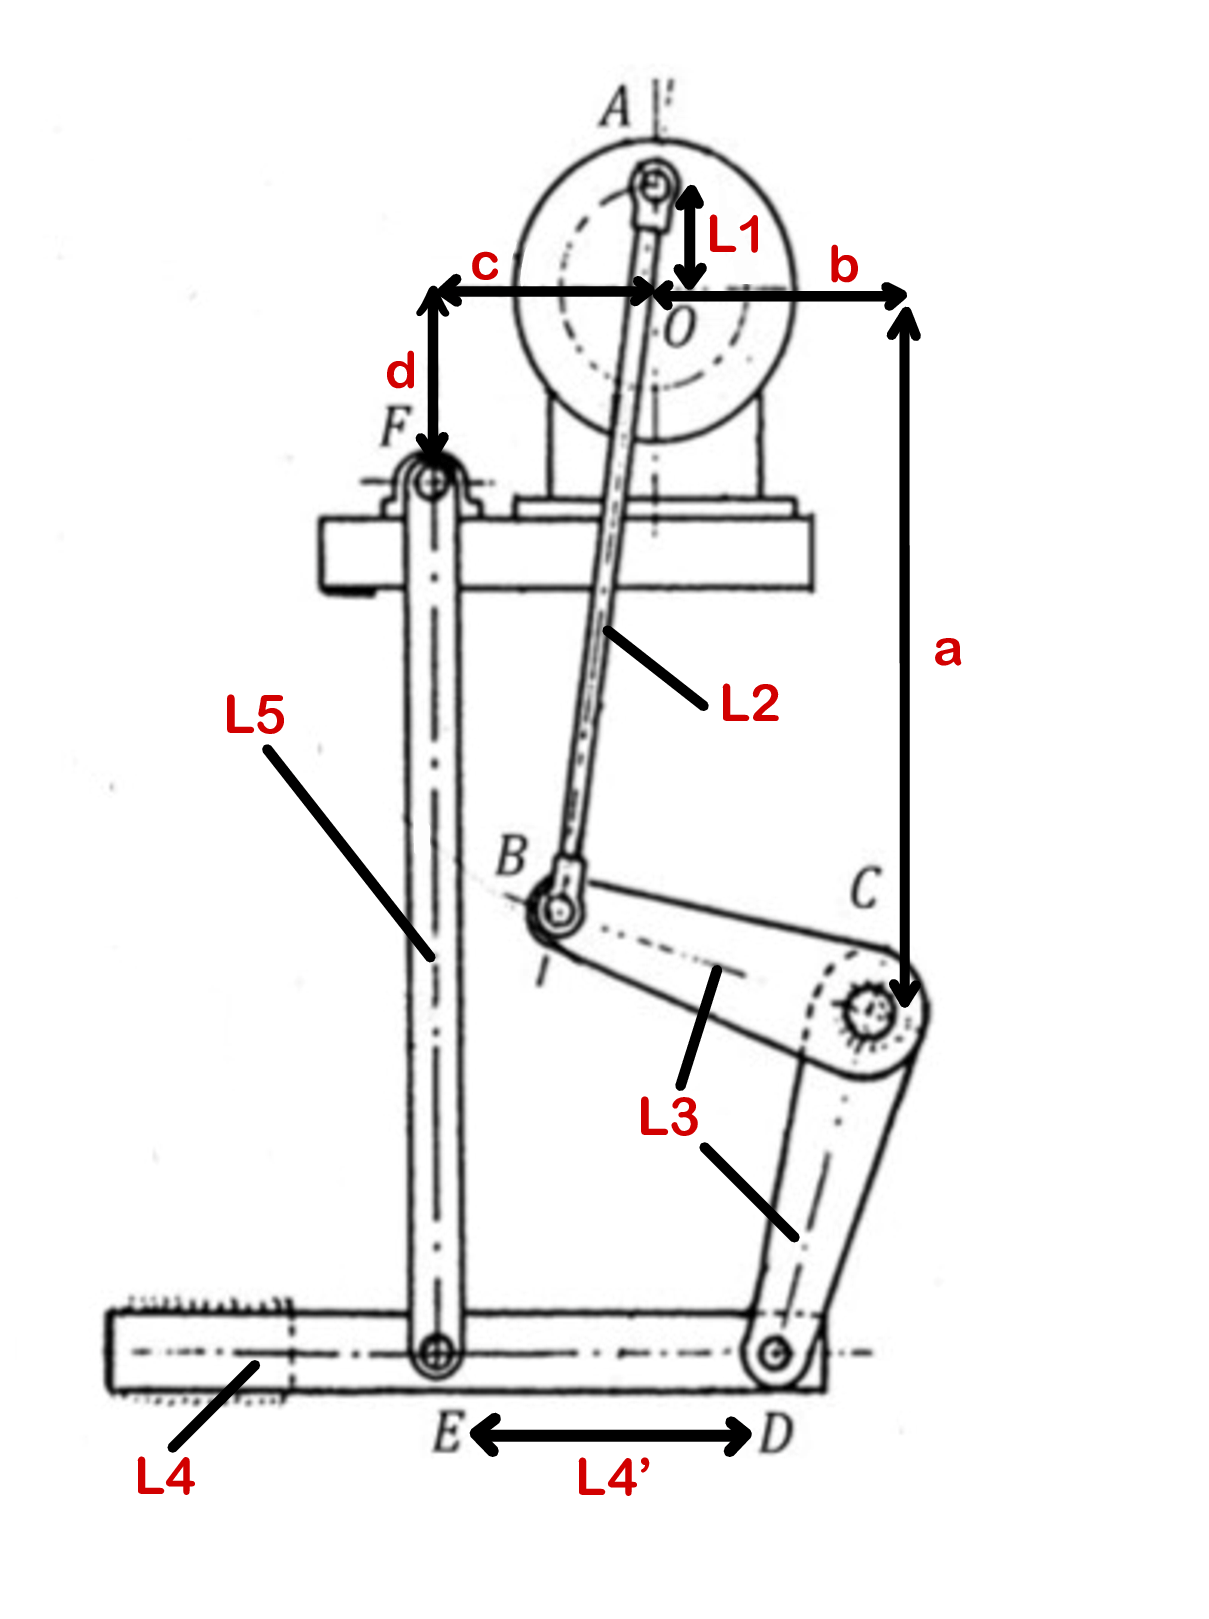
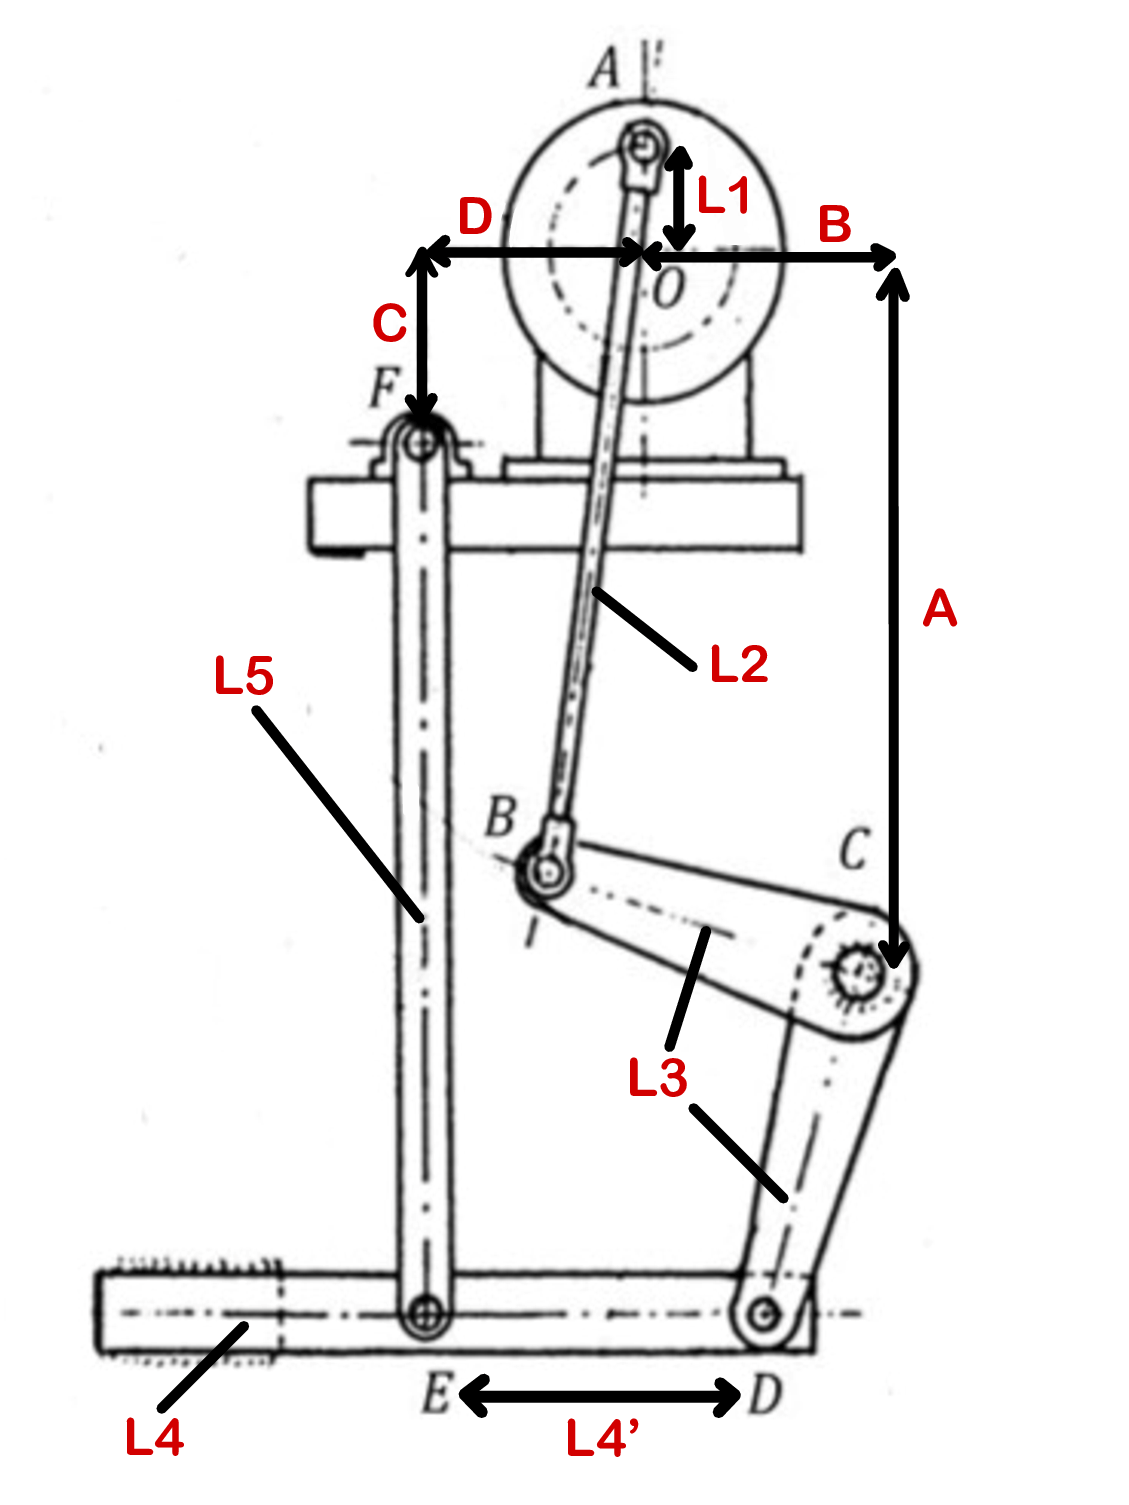
Corrections and cleaning

Changed region(s): [[0.062, 0.0312, 0.837, 0.9681]]

diff --git a/gui.py b/gui.py
@@ -30,7 +30,7 @@ class SettingsWindow:
                            {"name": "d"}]
 
         for index, dimension in enumerate(self.dimensions):
-            ttk.Label(self.root, text=f"{dimension['name']} : ").grid()
+            ttk.Label(self.root, text=f"{dimension['name'].upper()} : ").grid()
             dimension["value"] = tk.StringVar(value=self.swell_sim.D[dimension["name"]])
             dimension["dim_entry"] = ttk.Entry(self.root, width=11, textvariable=dimension["value"])
             dimension["dim_entry"].grid(row=index*2+1, column=1)
@@ -53,7 +53,7 @@ class SettingsWindow:
         render = ImageTk.PhotoImage(image)
         img_label = ttk.Label(self.root, image=render)
         img_label.image = render
-        img_label.place(x=150, y=15)
+        img_label.place(x=153, y=15)
 
     def update_dim(self, event=None):
         for index, dimension in enumerate(self.dimensions):
@@ -65,12 +65,10 @@ class SettingsWindow:
                 self.swell_sim.D[dimension["name"]] = dim
                 
             except ValueError:
-                dimension["label"].configure(text="Give a real number")
-                dimension["label"].configure(foreground='red')
+                dimension["label"].configure(text="Give a real number", foreground='red')
                 dimension["label"].grid(column=1, row=index*2)
             except InvalidDimension:
-                dimension["label"].configure(text="Give a positive number")
-                dimension["label"].configure(foreground='red')
+                dimension["label"].configure(text="Give a positive number", foreground='red')
                 dimension["label"].grid(column=1, row=index*2)
 
     def reset(self, event=None):

diff --git a/swell_simulator.py b/swell_simulator.py
@@ -32,7 +32,7 @@ class SwellSimulator:
         self.psi = 0
         self.phi = 0
 
-        self.origin_coord = (self.settings.screen_width * 2 / 3, self.settings.screen_height / 5)
+        self.origin_coord = (self.settings.screen_width * 3 / 5, self.settings.screen_height / 5)
 
         self.settings_window = SettingsWindow(self)
 

diff --git a/settings.py b/settings.py
@@ -6,5 +6,5 @@ class Settings:
     def __init__(self):
         self.screen_width = int(pygame.display.Info().current_w * 1/3)
         self.screen_height = int(pygame.display.Info().current_h * 2/3)
-        self.bg_color = (255, 255, 255)
+        self.bg_color = (245, 245, 220)
         self.clock = pygame.time.Clock()

diff --git a/README.md b/README.md
@@ -1,2 +1,2 @@
-# swell-simulator
-Swell simulator with the possibility  to change the dimensions thanks to a widget.
+# Swell Simulator
+Change the dimensions of a swell simulator and observe its behaviour.
